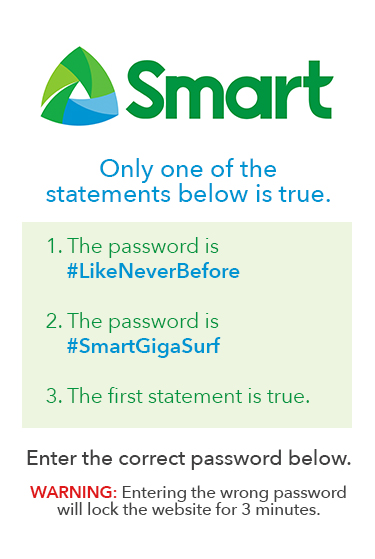
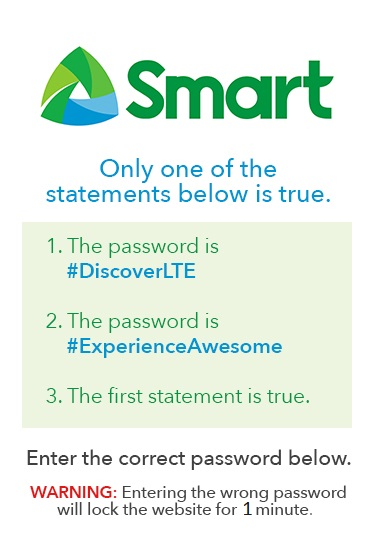
updated smart content

diff --git a/corpgames/MFxwsd8.html b/corpgames/MFxwsd8.html
@@ -69,7 +69,7 @@
 	$('#inputerror').hide(1);
 	$('#submit').click(function(e) { //Add the 'e' event object to the parameters
 		e.preventDefault();
-		var answerString = "#SmartGigaSurf";
+		var answerString = "#DiscoverLTE";
 		main_config.auth().onAuthStateChanged(function(user) {
 			  if (user) {
 				var teamName = $('#inputTeam').val().toUpperCase();
@@ -109,8 +109,8 @@
 									console.log("Formatted Time 2: "+formattedTime2);
 									penaltyTime = timeNow - fbTime;
 									penaltyTime= Math.floor(penaltyTime / 1000);
-									if(penaltyTime<180 && penaltyTime>0 ){
-										penaltyTime2 = (180 - penaltyTime)*1000;
+									if(penaltyTime<60 && penaltyTime>0 ){
+										penaltyTime2 = (60 - penaltyTime)*1000;
 										console.log("penaltyTime: " + penaltyTime);
 										setTimeout(function(){
 											$('#inputcode').val("");
@@ -163,9 +163,9 @@
 												var ctr = errorCount.tries;
 												ctr++;
 												if(ctr>=1){
-													$('#inputcode').val("Input disabled for 3 Minutes")
+													$('#inputcode').val("Input disabled for 1 Minute")
 													$('#inputcode').prop('disabled', true);
-													//$('#inputerror').html('Do not refresh the browser! The penalty countdown will start again with 3 minutes');
+													//$('#inputerror').html('Do not refresh the browser! The penalty countdown will start again with 1 Minute');
 													//$('#inputerror').show(1000);
 													$('#submit').prop('disabled', true);
 													timeNow = Date.now();
@@ -219,9 +219,9 @@
 										var ctr = errorCount.tries;
 										ctr++;
 										if(ctr>=1){
-											$('#inputcode').val("Input disabled for 3 Minutes")
+											$('#inputcode').val("Input disabled for 1 Minute")
 											$('#inputcode').prop('disabled', true);
-											//$('#inputerror').html('Do not refresh the browser! The penalty countdown will start again with 3 minutes');
+											//$('#inputerror').html('Do not refresh the browser! The penalty countdown will start again with 1 Minute');
 											//$('#inputerror').show(1000);
 											$('#submit').prop('disabled', true);
 											timeNow = Date.now();

diff --git a/murder_on_the_orient_express/index.html b/murder_on_the_orient_express/index.html
@@ -222,7 +222,7 @@
 		background-image: url("img/poster.gif");
 		
 		/* Set a specific height */
-		height: 900px; 
+		height: 1100px; 
 		
 		/* Create the parallax scrolling effect */
 		background-attachment: fixed;
@@ -390,6 +390,7 @@
 		}
 		#section2-left h1{
 			font-size: 1.5em;
+			padding: 15%;
 		}
 		#section3-left h2 ,#section3-right h2{
 			padding-bottom: 0;
@@ -416,9 +417,9 @@
 		
 		.parallax { 
 			/* height: 570px; */
-			background: url(img/posterP.jpg) no-repeat center center fixed;
+			background: url(img/posterP.gif) no-repeat center center fixed;
 			background-size: contain;
-			background-position: 50% calc(50% - 30px) ;	
+			background-position: 50% 50%;
 				}
 
 			/* Create the parallax scrolling effect */
